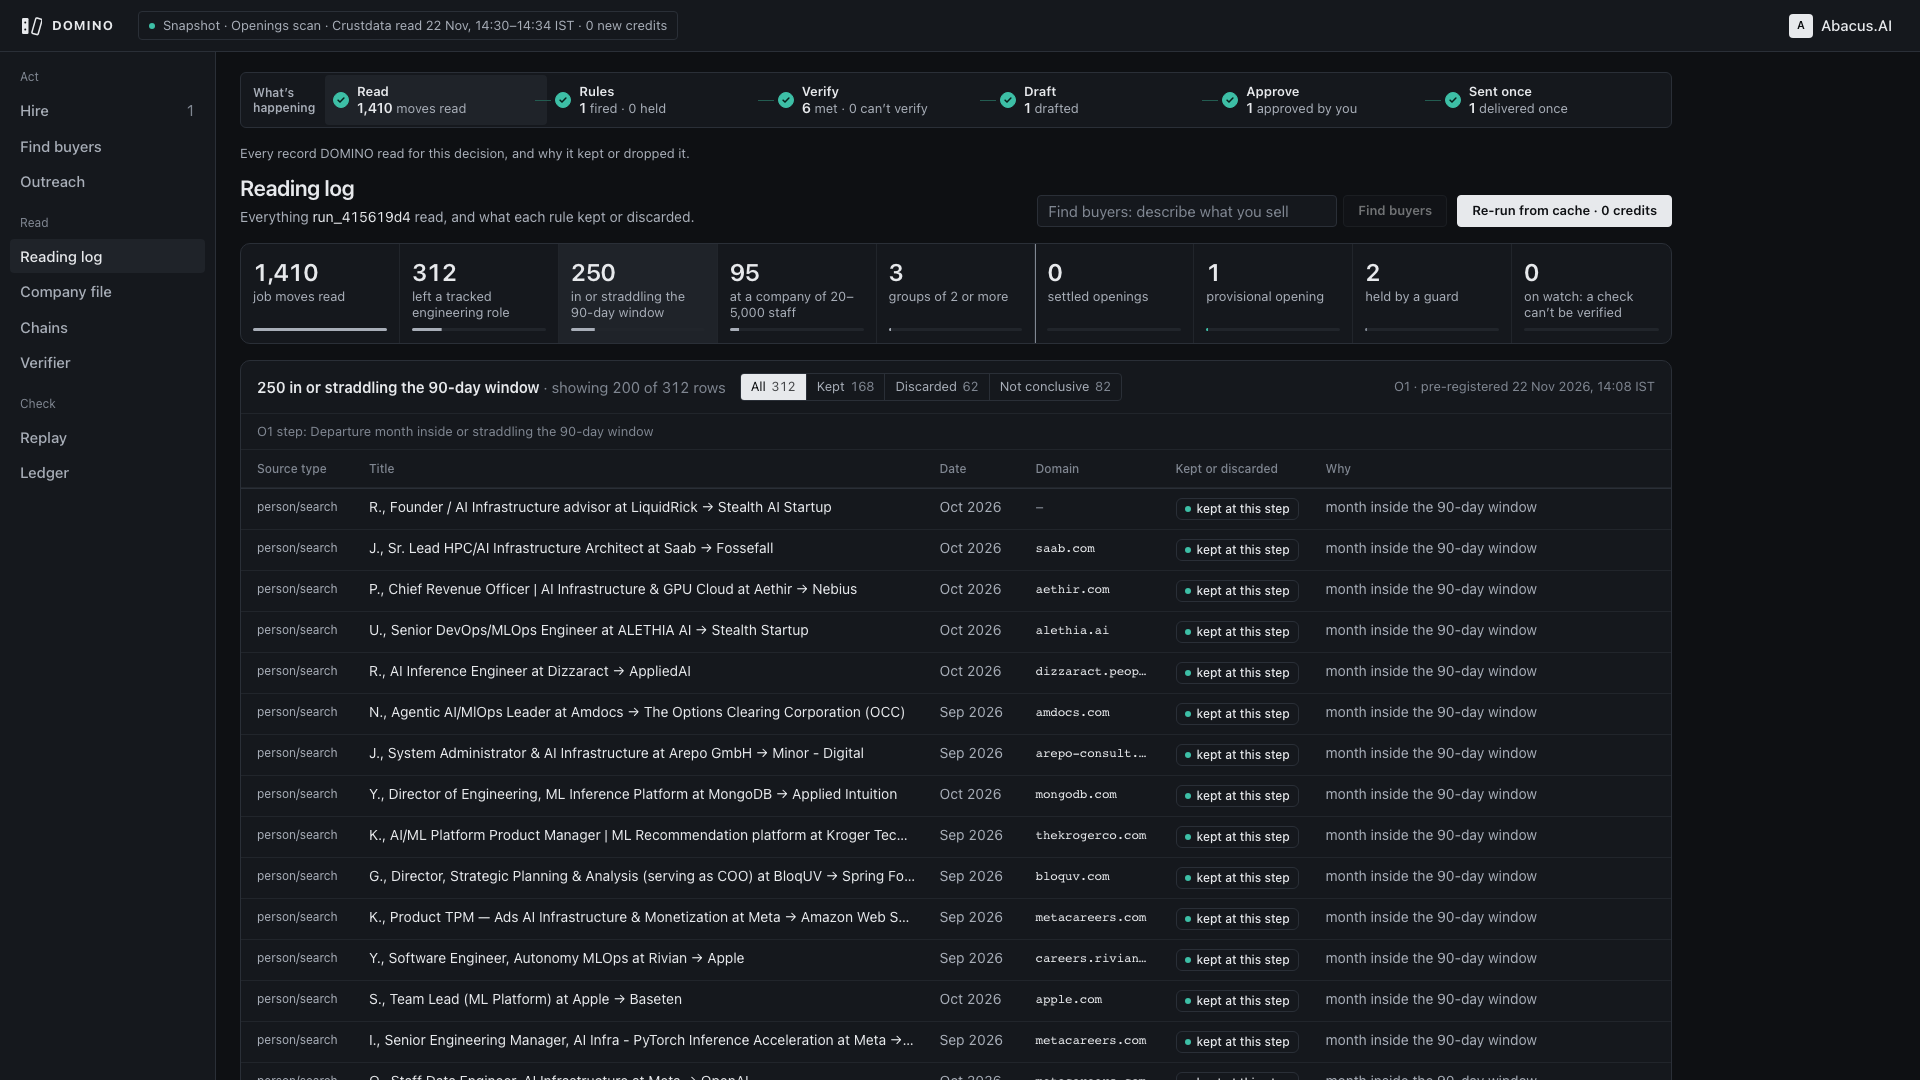
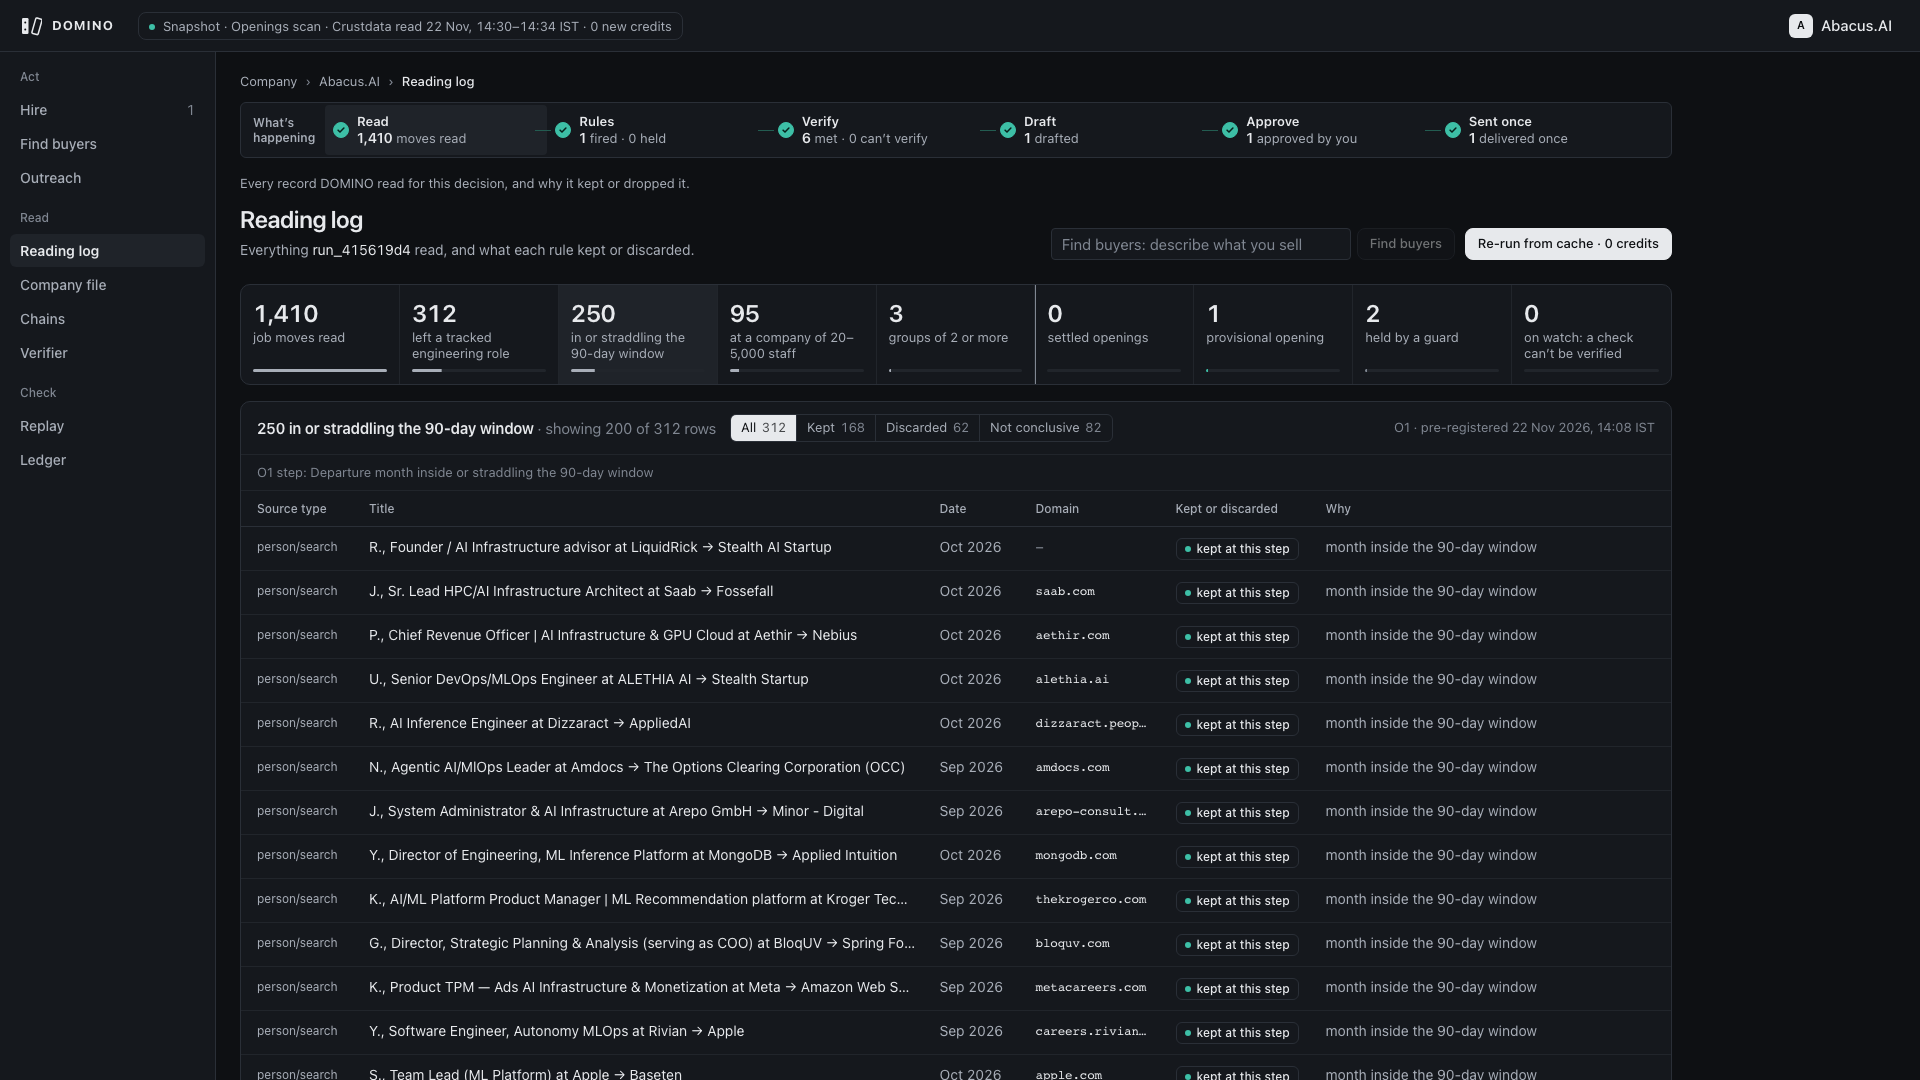
Hire and Reading log on p5's Attio tokens: type steps, radii and 40px rows from tokens, drop overrides table.t now covers

diff --git a/web2/src/features/reading/reading.css b/web2/src/features/reading/reading.css
@@ -114,44 +114,37 @@ tr:not(.rd-sub) + .rd-sub td, .rd-sub + .rd-sub td { border-top: 0; }
   .rd-ask input { width: 240px; }
 }
 
-/* polish pass: the log reads as one data grid. Sticky muted heads while the page scrolls, one 13px sans size for every
-   cell (dates in tabular figures, only the domain stays mono), 10px/16px cells, a quiet hover, tabular funnel counts. */
-.funnel b { font-variant-numeric: tabular-nums; }
-.rd-table thead th {
-  position: sticky; top: 0; z-index: 1; background: var(--surface); font-size: 12px; font-weight: 500; color: var(--ink-3);
-  text-transform: none; letter-spacing: 0; padding-top: 10px; padding-bottom: 10px; box-shadow: inset 0 -1px 0 var(--rule-2); white-space: nowrap;
-}
-.rd-table { font-size: 13px; }
-.rd-table td { padding-top: 10px; padding-bottom: 10px; vertical-align: top; }
-.rd-date { font-family: var(--sans); font-size: 13px; letter-spacing: 0; color: var(--ink-2); }
+/* polish pass on p5's Attio tokens: the log is one data grid. The shell's table.t supplies the sticky 36px head and
+   hover; rows here are 40px and single-line (full title and domain on hover), one sans size per cell (dates tabular,
+   only the domain mono), decisions as small rounded pills with a state dot (teal = kept, meaning only), 10px cards. */
+.funnel b { font-variant-numeric: tabular-nums; letter-spacing: var(--track-tight); font-weight: var(--w-semi); }
+.rd-panel, .rd-funnel { border-radius: var(--r-lg); }
+.rd-funnel > div:first-child { border-radius: var(--r-lg) 0 0 var(--r-lg); }
+.rd-funnel > div:last-child { border-radius: 0 var(--r-lg) var(--r-lg) 0; }
+.rd-table { font-size: var(--fs-ui); }
+.rd-table td { padding-top: 10px; padding-bottom: 10px; line-height: var(--lh-body); vertical-align: middle; }
+.rd-table td.rd-title { white-space: nowrap; overflow: hidden; text-overflow: ellipsis; overflow-wrap: normal; }
+.rd-src { font-size: var(--fs-cap); }
+.rd-date { font-family: var(--sans); font-size: var(--fs-ui); letter-spacing: 0; color: var(--ink-2); }
 .rd-table .c-dec { width: 150px; }
 .rd-table .c-date { width: 96px; }
-.rd-table tbody tr { transition: background 150ms var(--ease); }
-.rd-table tbody tr.rd-open:hover { background: var(--row-hover); }
 .rd-open:focus-visible { outline: 2px solid var(--ink-3); outline-offset: -2px; }
 .rd-showing, .rd-seg button span { font-variant-numeric: tabular-nums; }
+.rd-seg { border-radius: var(--r); }
 .rd-seg button { padding: 3px 10px; }
-/* Attio direction: compact single-line rows (full title on hover), decisions and source types as small rounded pills
-   with a state dot, hairline 10px cards. The teal dot is kept for meaning only (kept); discards stay neutral. */
-.rd-panel, .rd-funnel { border-radius: 10px; }
-.rd-funnel > div:first-child { border-radius: 10px 0 0 10px; }
-.rd-funnel > div:last-child { border-radius: 0 10px 10px 0; }
-.rd-table td { padding-top: 9px; padding-bottom: 9px; vertical-align: middle; }
-.rd-table td.rd-title { white-space: nowrap; overflow: hidden; text-overflow: ellipsis; overflow-wrap: normal; }
-.rd-src { font-size: 12px; }
 .rd-pill {
-  display: inline-flex; align-items: center; gap: 6px; height: 22px; padding: 0 8px; border: 1px solid var(--rule); border-radius: 6px;
-  font-size: 12px; font-weight: 500; color: var(--ink); background: var(--surface); white-space: nowrap;
+  display: inline-flex; align-items: center; gap: 6px; height: 22px; padding: 0 8px; border: 1px solid var(--rule); border-radius: var(--r);
+  font-size: var(--fs-cap); font-weight: var(--w-med); color: var(--ink); background: var(--surface); white-space: nowrap;
 }
-.rd-pill i { width: 6px; height: 6px; border-radius: 50%; background: var(--ink-3); flex: none; }
-.rd-pill-kept i { background: var(--acc); }
+.rd-pill i { width: 6px; height: 6px; border-radius: var(--r-pill); background: var(--ink-3); flex: none; }
+.rd-pill-kept i, .rd-pill-provisional i { background: var(--acc); }
 .rd-pill-provisional { border-style: dashed; border-color: var(--acc); }
-.rd-pill-provisional i { background: var(--acc); }
 .rd-pill-discarded { color: var(--ink-2); }
 .rd-pill-discarded i { background: transparent; border: 1.5px solid var(--ink-3); width: 7px; height: 7px; box-sizing: border-box; }
 .rd-pill-held, .rd-pill-inconclusive { color: var(--ink-2); background: repeating-linear-gradient(135deg, transparent 0 3px, var(--hatch) 3px 5px); }
+.rd-sub td { padding-top: 6px; padding-bottom: 6px; }
 .rd-sub .rd-pill { height: 20px; }
 @media (min-width: 1800px) {
-  .rd-table { font-size: 14px; }
-  .rd-date { font-size: 14px; }
+  .rd-table, .rd-date { font-size: var(--fs-body); }
 }
+

diff --git a/web2/src/features/openings/openings.css b/web2/src/features/openings/openings.css
@@ -172,33 +172,30 @@
   .rec-fun b { font-size: 26px; line-height: 32px; }
 }
 
-/* polish pass: data grid rhythm. Sans only, tabular figures for every count and date, muted 12px sentence-case
-   heads, 16px cell gutters, a quiet row hover, and the header summary never outranks its heading. */
-.rec-fun b { font-family: var(--sans); font-weight: 600; letter-spacing: -.02em; font-variant-numeric: tabular-nums; }
+/* polish pass on p5's Attio tokens: the shell's table.t gives the sticky 36px head, 40px rows, 16px edge gutters and
+   row hover; this only sets the type steps, the tabular figures, the 10px cards and the state pill. Sans only. */
+.rec .panel { border-radius: var(--r-lg); }
+.rec-fun b { font-family: var(--sans); font-weight: var(--w-semi); letter-spacing: var(--track-tight); font-variant-numeric: tabular-nums; }
 .rec-fun .rec-plus { font-family: var(--sans); }
-.rec-role { font-weight: 600; letter-spacing: -.01em; }
+.rec-role { font-size: var(--fs-h); line-height: var(--lh-h); font-weight: var(--w-semi); letter-spacing: var(--track-snug); }
+.rec-role-sub { font-size: var(--fs-cap); line-height: var(--lh-cap); }
 .rec [data-num], .rec-count, .rec-ev-date, .rec-proof, .rec-role-sub { font-variant-numeric: tabular-nums; }
-.rec .panel > header > span:not(.st) { font-size: 13px; }
-.rec table.t th { font-size: 12px; font-weight: 500; color: var(--ink-3); text-transform: none; letter-spacing: 0; }
-.rec table.t th:first-child, .rec table.t td:first-child { padding-left: 16px; }
-.rec table.t th:last-child, .rec table.t td:last-child { padding-right: 16px; }
-.rec-dep table.t td { vertical-align: top; }
-.rec-dep table.t td:nth-child(3), .rec-hire td:nth-child(3) { font-variant-numeric: tabular-nums; }
-.rec-dep table.t tbody tr { transition: background 150ms var(--ease); }
-.rec-dep table.t tbody tr:hover { background: var(--row-hover); }
-.rec-hire td { vertical-align: top; }
+.rec .panel > header > span:not(.st) { font-size: var(--fs-ui); }
+.rec-dep table.t td { vertical-align: middle; }
+/* a departure month is a date, not a quantity: it reads left under its "Left" head */
+.rec-dep table.t td[data-num] { text-align: left; }
+.rec-hire td:nth-child(3) { font-variant-numeric: tabular-nums; }
 .rec-fit li + li { margin-top: 4px; }
-.rec-foot { padding: 10px 16px 12px; }
-/* Attio direction: 10px hairline cards, state as a small rounded pill with a teal dot (meaning only), 36-40px rows. */
-.rec .panel { border-radius: 10px; }
+.rec-foot { padding: 10px var(--cell-x-edge) 12px; }
 .rec-pill {
-  display: inline-flex; align-items: center; gap: 6px; height: 22px; padding: 0 8px; border: 1px solid var(--rule); border-radius: 6px;
-  font-size: 12px; font-weight: 500; color: var(--ink); background: var(--surface); white-space: nowrap;
+  display: inline-flex; align-items: center; gap: 6px; height: 22px; padding: 0 8px; border: 1px solid var(--rule); border-radius: var(--r);
+  font-size: var(--fs-cap); font-weight: var(--w-med); color: var(--ink); background: var(--surface); white-space: nowrap;
 }
-.rec-pill i { width: 6px; height: 6px; border-radius: 50%; background: var(--acc); }
-.rec-dep table.t td { padding-top: 9px; padding-bottom: 9px; vertical-align: middle; }
+.rec-pill i { width: 6px; height: 6px; border-radius: var(--r-pill); background: var(--acc); }
 @media (min-width: 1800px) {
-  .rec-pill { font-size: 13px; height: 24px; }
-  .rec .panel > header > span:not(.st) { font-size: 14px; }
-  .rec table.t th { font-size: 13px; }
+  .rec table.t td { font-size: var(--fs-lead); padding-top: 10px; padding-bottom: 10px; }
+  .rec-role { font-size: var(--fs-page); line-height: var(--lh-page); }
+  .rec-pill { font-size: var(--fs-ui); height: 24px; }
+  .rec .panel > header > span:not(.st) { font-size: var(--fs-body); }
 }
+
